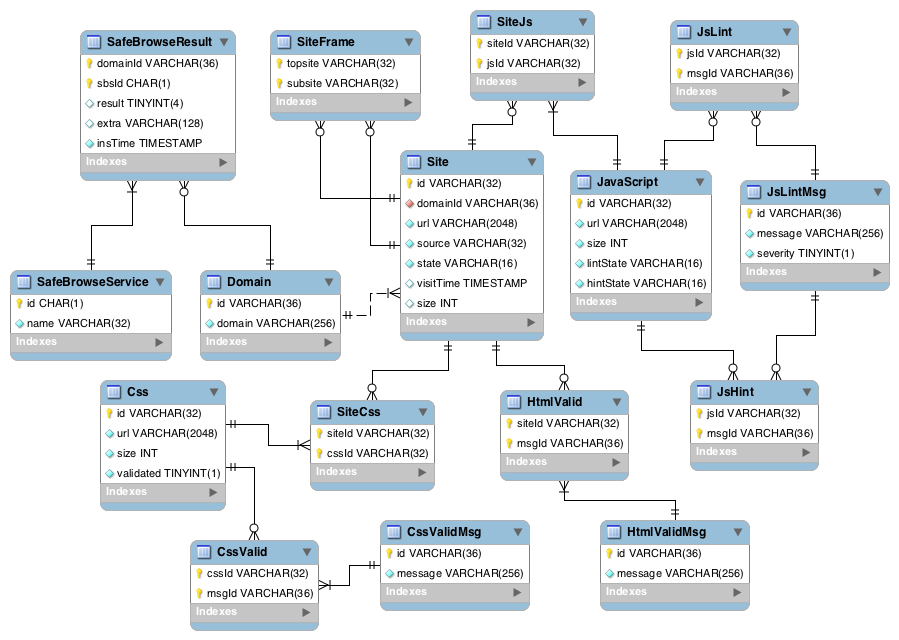
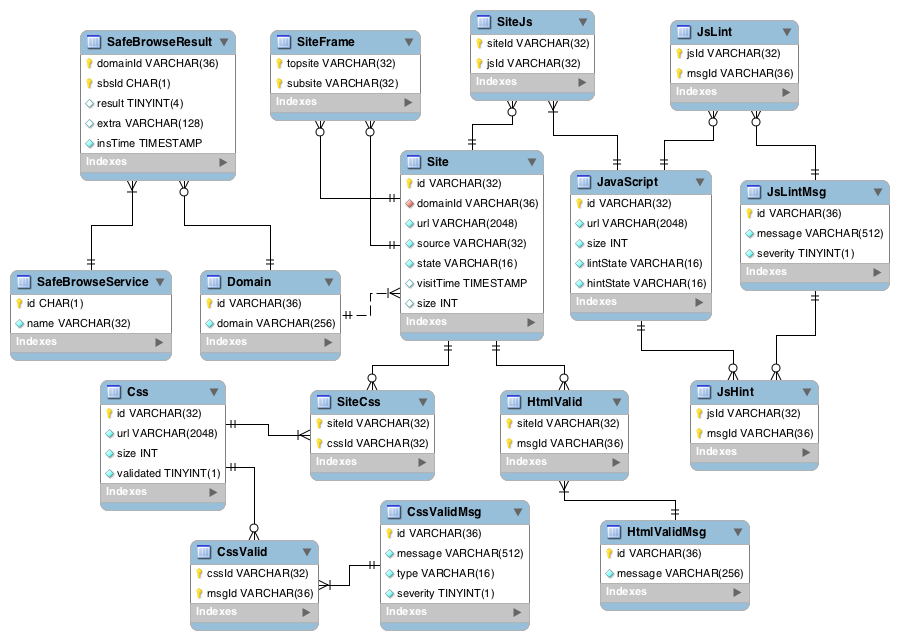
basic cli css validation working

Changed region(s): [[0.3115, 0.5625, 0.5918, 1.0], [0.9655, 0.3438, 0.9967, 0.375]]

diff --git a/src/main/java/edu/uccs/arenger/hilas/quality/CssChecker.java b/src/main/java/edu/uccs/arenger/hilas/quality/CssChecker.java
@@ -5,8 +5,9 @@ import java.util.HashSet;
 import java.util.Set;
 import java.util.concurrent.ScheduledFuture;
 import java.util.concurrent.TimeUnit;
+import java.util.regex.Matcher;
+import java.util.regex.Pattern;
 
-import org.w3c.css.css.CssValidator;
 import org.w3c.css.css.DocumentParser;
 import org.w3c.css.css.StyleSheet;
 import org.w3c.css.parser.CssError;
@@ -18,6 +19,7 @@ import org.slf4j.Logger;
 import org.slf4j.LoggerFactory;
 
 import edu.uccs.arenger.hilas.Worker;
+import edu.uccs.arenger.hilas.dal.CssValidMsg;
 
 public class CssChecker implements Worker {
    private static final Logger LOGGER
@@ -26,6 +28,7 @@ public class CssChecker implements Worker {
    //using a customized "language" to help identify unique error types
    private static final String LANG_FILE = "/Messages.properties.hilas";
    private static final String LANG = "hilas";
+   private Pattern rawPattern = Pattern.compile("___(.+?)___");
 
    private ScheduledFuture<?> scheduledFuture;
 
@@ -65,24 +68,46 @@ public class CssChecker implements Worker {
          LOGGER.info("scheduledFuture not set for {}", this);
       }
    }
+   
+   private String rawExtract(String msg) {
+      String ret = "";
+      if (msg != null) {
+         Matcher m = rawPattern.matcher(msg);
+         if (m.find()) {
+            ret = m.group(1);
+         }
+      }
+      return ret;
+   }
 
-   private Set<String> checkCss(String url) {
-      Set<String> msgSet = new HashSet<String>();
+   // return a Set of error TYPES -- strings similar to the "raw" jshint msgs
+   private Set<CssValidMsg> checkCss(String url) {
+      Set<CssValidMsg> msgSet = new HashSet<CssValidMsg>();
       ApplContext cx = new ApplContext(LANG);
       try {
+         cx.setWarningLevel(Integer.MAX_VALUE);
          DocumentParser parser = new DocumentParser(cx, url);
          StyleSheet style = parser.getStyleSheet();
          style.findConflicts(cx);
          Warning[] warnings = style.getWarnings().getWarnings();
          for (Warning warn : warnings) {
-            //msgSet.add(warn.getWarningMessage());
-            System.out.println(warn.getWarningMessage());
+            String raw = rawExtract(warn.getWarningMessage());
+            if (raw.length() > 0) {
+               msgSet.add(new CssValidMsg(CssValidMsg.Type.WARN, raw));
+            } else {
+               msgSet.add(new CssValidMsg(CssValidMsg.Type.WARN,
+                  "no message"));
+            }
          }
          CssError[] errors = style.getErrors().getErrors();
          for (CssError err : errors) {
-            System.out.printf("%s (line %d): %s\n",
-               err.getException().getClass().getName(),
-               err.getLine(), err.getException().getMessage());
+            String raw = rawExtract(err.getException().getMessage());
+            if (raw.length() > 0) {
+               msgSet.add(new CssValidMsg(CssValidMsg.Type.ERROR, raw));
+            } else {
+               msgSet.add(new CssValidMsg(CssValidMsg.Type.ERROR,
+                  err.getException().getClass().getName()));
+            }
          }
       } catch (Exception e) {
          LOGGER.warn("warning", e);
@@ -108,8 +133,8 @@ public class CssChecker implements Worker {
       }
       LOGGER.info("started CssChecker.main");
       CssChecker me = new CssChecker();
-      Set<String> msgs = me.checkCss(args[0]);
-      for (String msg : msgs) {
+      Set<CssValidMsg> msgs = me.checkCss(args[0]);
+      for (CssValidMsg msg : msgs) {
          System.out.println(msg);
       }
    }
